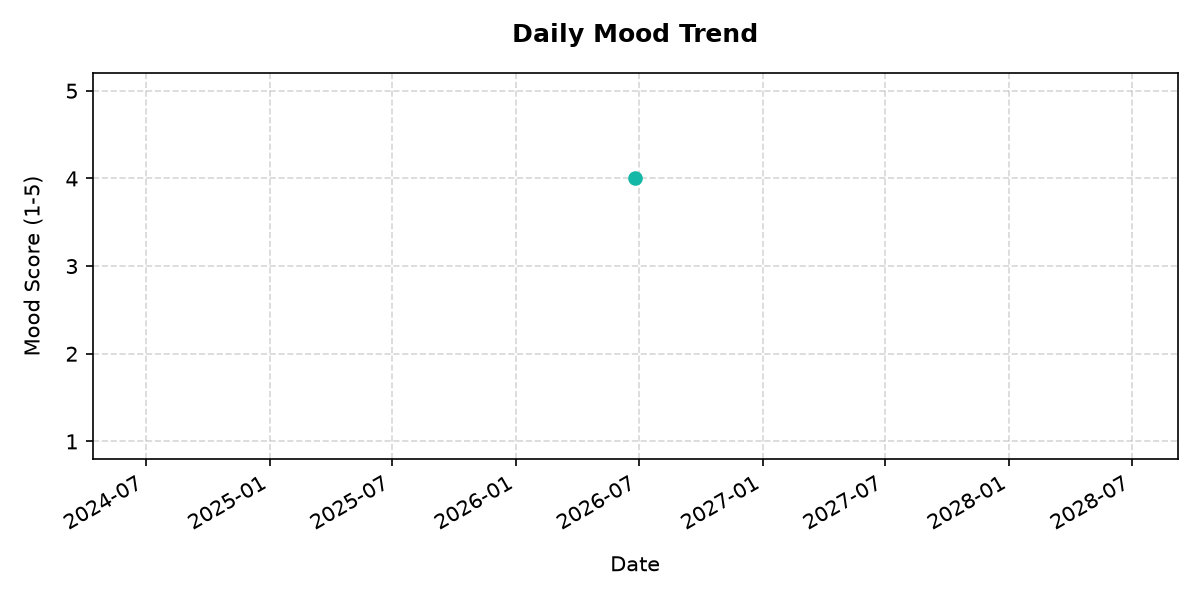
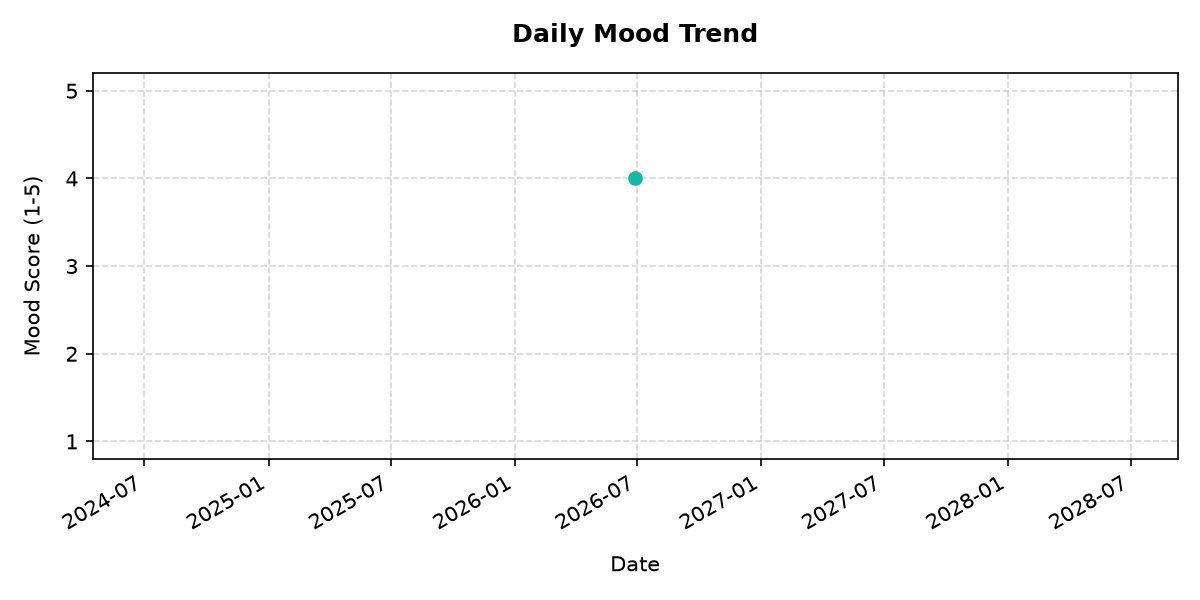
Day 13: Presentation slides, final app cleanup, submission package ready

diff --git a/templates/base.html b/templates/base.html
@@ -90,18 +90,28 @@
             <div class="collapse navbar-collapse" id="navbarNav">
                 {% if current_user.is_authenticated %}
                     <ul class="navbar-nav me-auto mb-2 mb-lg-0 align-items-center gap-2 ps-lg-4">
-                        <li class="nav-item">
-                            <a class="nav-link fw-semibold text-sm {% if request.endpoint == 'wellness.dashboard' %}text-primary active{% else %}text-secondary{% endif %}" href="{{ url_for('wellness.dashboard') }}">Dashboard</a>
-                        </li>
-                        <li class="nav-item">
-                            <a class="nav-link fw-semibold text-sm {% if request.endpoint == 'wellness.report' %}text-primary active{% else %}text-secondary{% endif %}" href="{{ url_for('wellness.report') }}">Weekly Report</a>
-                        </li>
-                        <li class="nav-item">
-                            <a class="nav-link fw-semibold text-sm {% if request.endpoint == 'wellness.history' %}text-primary active{% else %}text-secondary{% endif %}" href="{{ url_for('wellness.history') }}">History</a>
-                        </li>
-                        {% if current_user.role in ('admin', 'counselor') %}
+                        {% if current_user.role == 'student' %}
                             <li class="nav-item">
-                                <a class="nav-link fw-semibold text-sm {% if request.endpoint.startswith('admin.') %}text-primary active{% else %}text-secondary{% endif %}" href="{{ url_for('admin.dashboard') }}">Admin Panel</a>
+                                <a class="nav-link fw-semibold text-sm {% if request.endpoint == 'wellness.dashboard' %}text-primary active{% else %}text-secondary{% endif %}" href="{{ url_for('wellness.dashboard') }}">Dashboard</a>
+                            </li>
+                            <li class="nav-item">
+                                <a class="nav-link fw-semibold text-sm {% if request.endpoint == 'wellness.report' %}text-primary active{% else %}text-secondary{% endif %}" href="{{ url_for('wellness.report') }}">Weekly Report</a>
+                            </li>
+                            <li class="nav-item">
+                                <a class="nav-link fw-semibold text-sm {% if request.endpoint == 'wellness.history' %}text-primary active{% else %}text-secondary{% endif %}" href="{{ url_for('wellness.history') }}">History</a>
+                            </li>
+                        {% else %}
+                            <li class="nav-item">
+                                <a class="nav-link fw-semibold text-sm {% if request.endpoint == 'admin.dashboard' %}text-primary active{% else %}text-secondary{% endif %}" href="{{ url_for('admin.dashboard') }}">Dashboard</a>
+                            </li>
+                            <li class="nav-item">
+                                <a class="nav-link fw-semibold text-sm {% if request.endpoint == 'admin.students' %}text-primary active{% else %}text-secondary{% endif %}" href="{{ url_for('admin.students') }}">Students</a>
+                            </li>
+                            <li class="nav-item">
+                                <a class="nav-link fw-semibold text-sm {% if request.endpoint == 'admin.analytics' %}text-primary active{% else %}text-secondary{% endif %}" href="{{ url_for('admin.analytics') }}">System Analytics</a>
+                            </li>
+                            <li class="nav-item">
+                                <a class="nav-link fw-semibold text-sm {% if request.endpoint == 'admin.alerts' %}text-primary active{% else %}text-secondary{% endif %}" href="{{ url_for('admin.alerts') }}">Risk Alerts</a>
                             </li>
                         {% endif %}
                     </ul>

diff --git a/config.py b/config.py
@@ -13,5 +13,6 @@ class Config:
     SQLALCHEMY_TRACK_MODIFICATIONS = False
     
     # Flask Environment
-    FLASK_ENV = os.getenv('FLASK_ENV', 'development')
-    DEBUG = FLASK_ENV == 'development'
+    FLASK_ENV = os.getenv('FLASK_ENV', 'production')
+    # Default to debug=True only if FLASK_ENV is development and FLASK_DEBUG is not explicitly set to False
+    DEBUG = os.getenv('FLASK_DEBUG', 'True' if FLASK_ENV == 'development' else 'False').lower() in ('true', '1', 'yes')

diff --git a/app.py b/app.py
@@ -38,6 +38,8 @@ def create_app(config_class=Config):
     def home():
         # Redirect to dashboard if logged in, otherwise show landing page
         if current_user.is_authenticated:
+            if current_user.role in ['admin', 'counselor']:
+                return redirect(url_for('admin.dashboard'))
             return redirect(url_for('wellness.dashboard'))
         return render_template('index.html')
         
@@ -50,4 +52,4 @@ def create_app(config_class=Config):
 
 if __name__ == '__main__':
     app = create_app()
-    app.run(host='127.0.0.1', port=5000, debug=True)
+    app.run(host='127.0.0.1', port=5000, debug=app.config['DEBUG'])

diff --git a/wellness.py b/wellness.py
@@ -527,6 +527,10 @@ def delete_entry(log_id):
 @wellness.route('/dashboard')
 @login_required
 def dashboard():
+    # Redirect admin/counselor to their dashboard
+    if current_user.role in ['admin', 'counselor']:
+        return redirect(url_for('admin.dashboard'))
+        
     # 1. Query last 30 days of wellness logs for the user (ordered ascending for chronological charts)
     thirty_days_ago = datetime.now().date() - timedelta(days=30)
     logs_30d = WellnessLog.query.filter_by(user_id=current_user.id)\